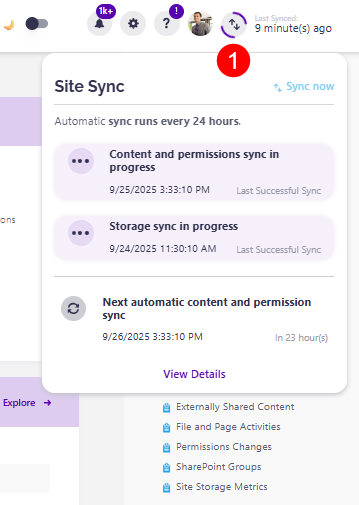
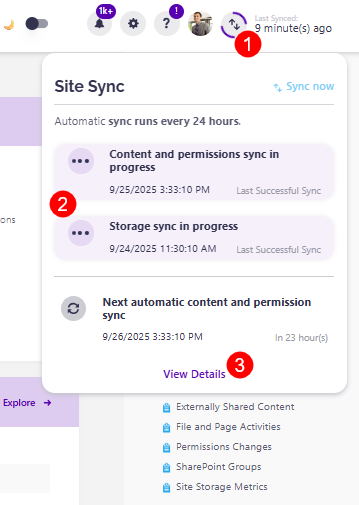
updated

Changed region(s): [[0.5822, 0.0594, 0.7354, 0.1782], [0.6128, 0.6832, 0.7047, 0.7723], [0.1226, 0.3564, 0.2145, 0.4455]]

diff --git a/storage-management/storage-sync.md b/storage-management/storage-sync.md
@@ -65,6 +65,21 @@ Whether your storage is being synced automatically or you've used the on-demand 
 ![Storage Metrics - Storage Sync](../.gitbook/assets/storage-sync-storage-metrics-last-sync.png)
 
 * Select a workspace on the [Sites Overview screen](../microsoft365-inventory/sites.md), which opens the **Workspace Details screen**
-  * In the top right corner, if the storage is being synced, you can **view the current progress (1)** and see if there are any potential conflicts stopping a full storage sync.
+  * **Clicking the sync button (1)** in the top right corner of the workspace details screen starts the storage sync and the content and permissions sync
+  * If the storage is being synced, you can **view the current progress (2)** and see if any potential conflicts are stopping a full storage sync.
+  * **Clicking the View Details button (3)** opens the Sync Status report, where you can find the following:
+    * Above the report, you can see the number of workspaces that are **Successfully Synced, Sync Failed, In Progress, Not Yet Synced**
+    * **Name** of the workspace
+    * **URL** of the workspace
+    * **Last Synced** shows the date the workspace was last synced
+    * **Last Sync Duration** shows how long the last sync took
+    * **Current Status** of the workspace
+    * **Error Text** shows if there was any error during sync
+    * **Last Storage Sync (4)** shows the last time storage was synced
+    * **Storage Sync Progress (5)** shows the current sync status on the workspace, for example, idle, in progress, etc.
+    * **Selecting one or more workspaces (6)** on the report shows the **Sync Now button (7)** on the right side of the screen
+    * Pressing the Sync Now button starts the storage sync for the selected workspaces
 
 ![Storage Metrics - Storage Sync](../.gitbook/assets/storage-sync-workspace-details-current-progress.png)
+
+![Storage Metrics - Storage Sync](../.gitbook/assets/storage-sync-workspace-details-sync-status.png)
